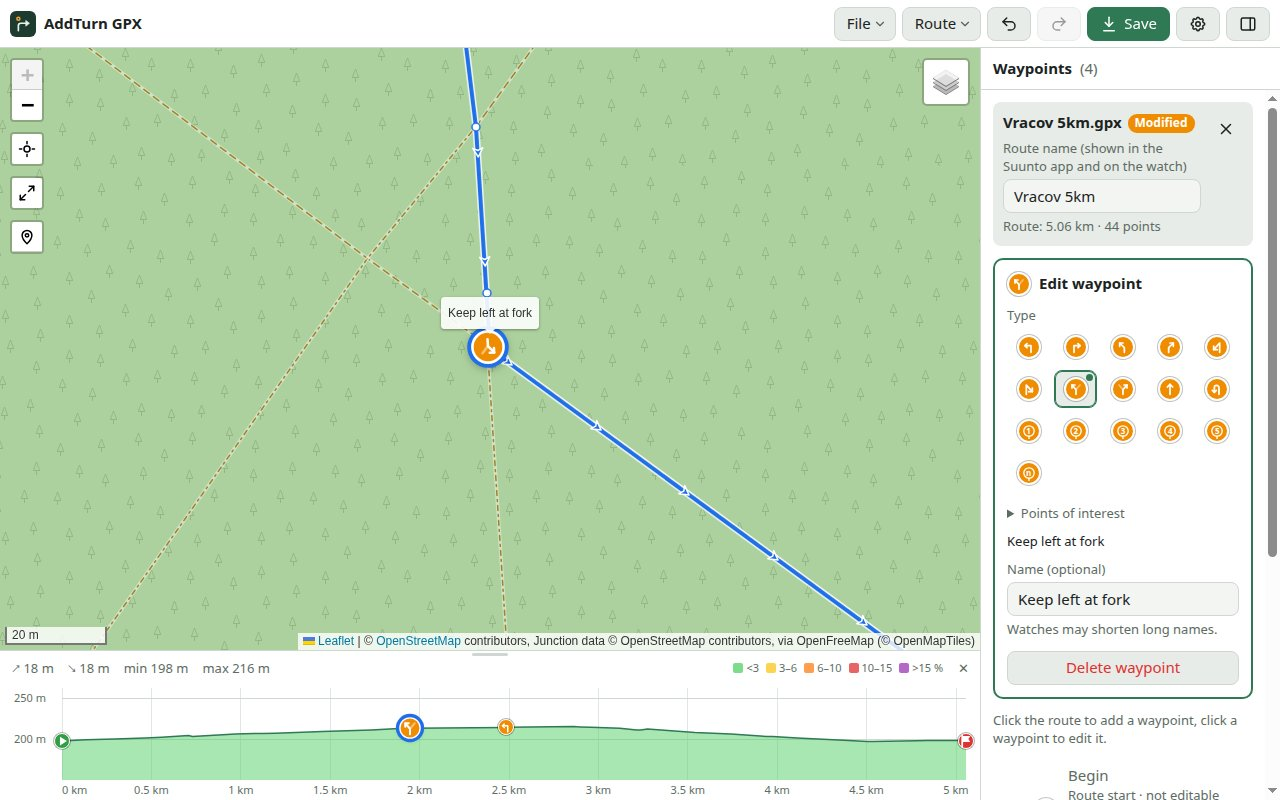
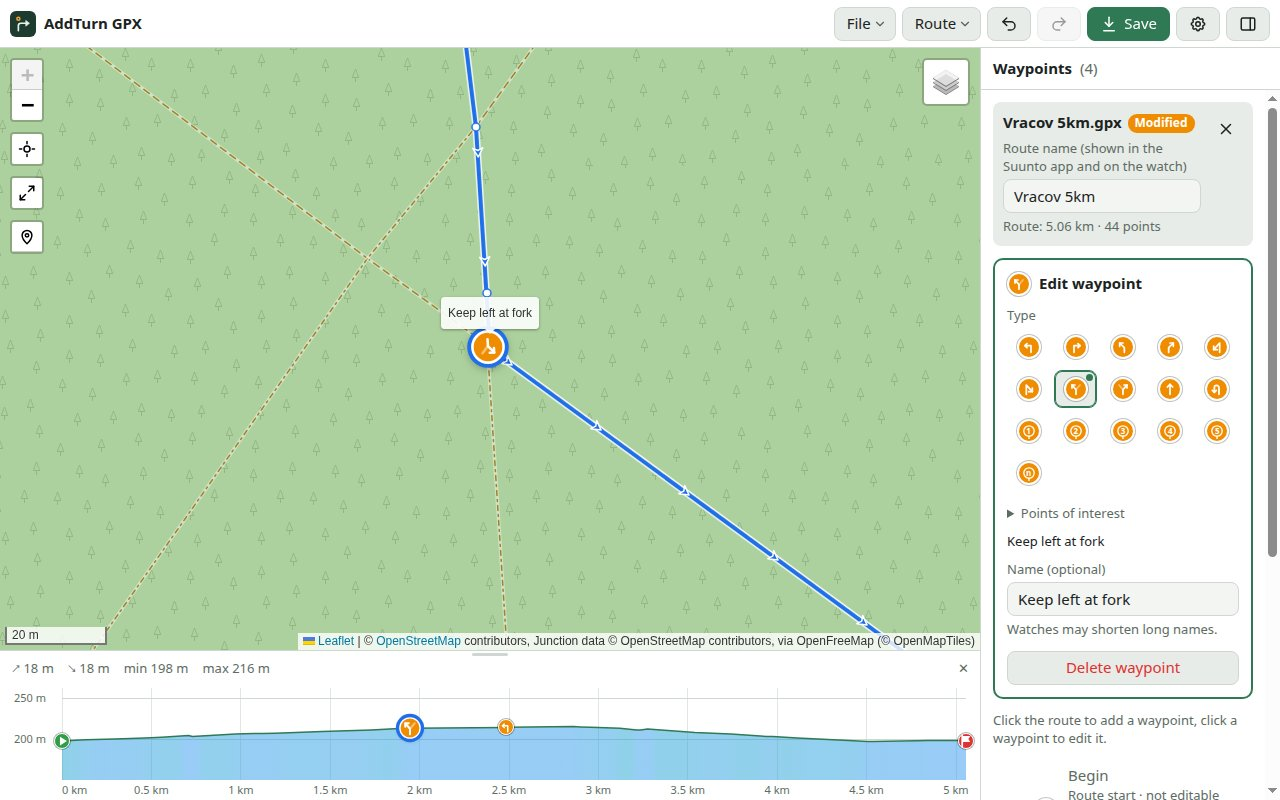
Elevation profile: smooth colour by steepness (blue – teal – green – yellow – red from 20 %), averaged over ±3 px of the chart so a long route doesn't break into stripes; legend removed (the cursor shows the grade); new README screenshots (v126)

Changed region(s): [[0.0312, 0.9062, 0.7812, 1.0], [0.5625, 0.8125, 0.75, 0.8438]]

diff --git a/index.html b/index.html
@@ -185,25 +185,11 @@
     position: absolute; top: 2px; left: 50%; width: 36px; height: 3px; transform: translateX(-50%);
     border-radius: 2px; background: var(--border); pointer-events: none;
   }
-  /* Legenda barev podle strmosti; v úzkém pruhu jen barvy */
-  #profile-legend{ display: flex; gap: 7px; font-size: 11px; flex: 0 0 auto; }
-  #profile-legend > span{ display: inline-flex; align-items: center; gap: 3px; }
-  #profile-legend i{ width: 10px; height: 10px; border-radius: 2px; display: inline-block; }
-  #profile.compact #profile-legend{ gap: 2px; font-size: 0; }
   #profile.compact #profile-stats{ font-size: 12px; }
   #profile.compact #profile-stats span + span{ margin-left: 8px; }
-  #profile.compact #profile-legend i{ width: 8px; }
   #profile-zoom-out{ height: 24px; min-width: 24px; padding: 0 4px; border-color: transparent; background: transparent; color: var(--text-muted); }
   #profile-zoom-out svg{ width: 16px; height: 16px; }
   @media (pointer: coarse){ #profile-zoom-out{ height: 30px; min-width: 30px; } }
-  /* Barvy podle strmosti (cyklus 91): do 3 %, 3–6, 6–10, 10–15, nad 15 % */
-  .pf-area.g0, #profile-legend .g0 i{ fill: #51cf66; background: #51cf66; }
-  .pf-area.g1, #profile-legend .g1 i{ fill: #fcc419; background: #fcc419; }
-  .pf-area.g2, #profile-legend .g2 i{ fill: #fd7e14; background: #fd7e14; }
-  .pf-area.g3, #profile-legend .g3 i{ fill: #e03131; background: #e03131; }
-  .pf-area.g4, #profile-legend .g4 i{ fill: #9c36b5; background: #9c36b5; }
-  .pf-area.g0, .pf-area.g1, .pf-area.g2, .pf-area.g3, .pf-area.g4{ fill-opacity: .5; }
-  #profile-legend i{ opacity: .75; }
   /* Výběr úseku tažením myší */
   #profile-sel{ position: absolute; top: 0; bottom: 0; pointer-events: none; background: color-mix(in srgb, var(--accent) 18%, transparent); border-left: 1px solid var(--accent); border-right: 1px solid var(--accent); }
   #profile-stats{ flex: 1 1 auto; min-width: 0; overflow: hidden; text-overflow: ellipsis; font-variant-numeric: tabular-nums; }
@@ -212,7 +198,8 @@
   @media (pointer: coarse){ #profile-close{ height: 30px; min-width: 30px; } }
   #profile-chart{ flex: 1 1 auto; min-height: 0; position: relative; overflow: hidden; cursor: crosshair; touch-action: none; user-select: none; -webkit-user-select: none; }
   #profile-chart svg{ position: absolute; inset: 0; width: 100%; height: 100%; display: block; }
-  .pf-area{ fill: color-mix(in srgb, var(--accent) 22%, transparent); }
+  /* Plocha s plynulou barvou podle strmosti (cyklus 93, vodorovný přechod #pf-grade) */
+  .pf-area{ fill: url(#pf-grade); fill-opacity: .5; }
   .pf-line{ fill: none; stroke: var(--accent); stroke-width: 1.5; stroke-linejoin: round; stroke-linecap: round; }
   .pf-grid{ stroke: var(--border); stroke-width: 1; shape-rendering: crispEdges; }
   .pf-grid.x{ opacity: .6; }
@@ -722,7 +709,6 @@
       <div id="profile-head" title="Drag to change the height of the elevation profile (double-click: the usual height)">
         <div id="profile-grip"></div>
         <span id="profile-stats"></span>
-        <span id="profile-legend" title="Colour of the profile by grade (steepness uphill or downhill)"><span class="g0" title="Grade under 3 %"><i></i>&lt;3</span><span class="g1" title="Grade 3–6 %"><i></i>3–6</span><span class="g2" title="Grade 6–10 %"><i></i>6–10</span><span class="g3" title="Grade 10–15 %"><i></i>10–15</span><span class="g4" title="Grade over 15 %"><i></i>&gt;15 %</span></span>
         <button type="button" id="profile-zoom-out" hidden title="Show the whole route in the profile (or double-click the chart)" aria-label="Show the whole route in the profile"><svg viewBox="0 0 24 24" fill="none" stroke="currentColor" stroke-width="2" stroke-linecap="round"><circle cx="10.5" cy="10.5" r="6.5"/><path d="m20 20-4.8-4.8M7.5 10.5h6"/></svg></button>
         <button type="button" id="profile-close" title="Hide the elevation profile (Route → Elevation profile shows it again)" aria-label="Hide the elevation profile">✕</button>
       </div>
@@ -1370,13 +1356,37 @@ function resetProfileView(){
   setProfileView(0, profile.total, { fit: false });
   fitRoute();
 }
-// Třída barvy podle strmosti (absolutní sklon v %; bez sklonu = nejnižší)
-const PROFILE_GRADE_CLASSES = [3, 6, 10, 15];
-function gradeClass(g){
-  const a = Math.abs(g ?? 0);
-  let c = 0;
-  while (c < PROFILE_GRADE_CLASSES.length && a >= PROFILE_GRADE_CLASSES[c]) c++;
-  return c;
+// Plynulá barva plochy podle strmosti (cyklus 93, přání uživatele 2026-11-28; dřív 5 tříd
+// s legendou): modrá – modrozelená – zelená – žlutá – červená, mezi opěrnými body lineárně,
+// od 20 % červená. Strmost = absolutní sklon (do kopce i z kopce stejně), legenda žádná –
+// přesný sklon ukazuje kurzor.
+const PROFILE_GRADE_COLORS = [[0, [51, 154, 240]], [3, [21, 170, 191]], [6, [81, 207, 102]], [10, [252, 196, 25]], [20, [224, 49, 49]]];
+function gradeColor(s){
+  const C = PROFILE_GRADE_COLORS;
+  let k = 1;
+  while (k < C.length - 1 && s > C[k][0]) k++;
+  const [g0, c0] = C[k - 1], [g1, c1] = C[k], t = Math.min(1, Math.max(0, (s - g0) / (g1 - g0)));
+  return "#" + c0.map((v, i) => Math.round(v + (c1[i] - v) * t).toString(16).padStart(2, "0")).join("");
+}
+// Strmost pro barvu ve vzdálenosti d: absolutní sklon z ±50 m (profileGrade, jako kurzor)
+// zprůměrovaný přes ±3 px grafu (PROFILE_COLOR_PX). Na dlouhé trase připadne na pixel víc
+// než 100 m (UTMB asi 150 m) a barva sloupce by vyšla z náhodného krátkého kousku – proužky;
+// průměr absolutních hodnot, aby se stoupání a klesání v okně nevyrušily. Sklon v krocích
+// nejvýš 25 m a nejvýš půl pixelu, průměr z kumulativních součtů.
+const PROFILE_COLOR_PX = 3, PROFILE_COLOR_STOP_PX = 2;
+function profileSteepness(v0, v1, cw){
+  const mpp = (v1 - v0) / cw, r = PROFILE_COLOR_PX * mpp;
+  const a = Math.max(profile.pts[0].d, v0 - r), b = Math.min(profile.pts.at(-1).d, v1 + r);
+  if (!(b > a) || !(mpp > 0)) return () => 0;
+  const n = Math.max(1, Math.ceil((b - a) / Math.min(25, mpp / 2))), h = (b - a) / n;
+  const cum = new Float64Array(n + 2);
+  for (let k = 0; k <= n; k++) cum[k + 1] = cum[k] + Math.abs(profileGrade(a + k * h) ?? 0);
+  return (d) => {
+    const i = Math.max(0, Math.ceil((d - r - a) / h - 1e-9)), j = Math.min(n, Math.floor((d + r - a) / h + 1e-9));
+    if (j >= i) return (cum[j + 1] - cum[i]) / (j - i + 1);
+    const k = Math.min(n, Math.max(0, Math.round((d - a) / h)));
+    return cum[k + 1] - cum[k];
+  };
 }
 function drawProfile(){
   const w = profileChart.clientWidth, h = profileChart.clientHeight;
@@ -1458,20 +1468,20 @@ function drawProfile(){
   }
   const xy = (q) => f1(q[0]) + "," + f1(q[1]);
   const path = line.map((q, i) => (i ? "L" : "M") + xy(q)).join("");
-  // Plocha po úsecích v barvě podle strmosti (cyklus 91, rozhodnutí uživatele: vždy) – sklon
-  // uprostřed každého kousku čáry z výšek 50 m před a za (profileGrade, jako v kurzoru)
-  let run = null;
-  const area = (r) => parts.push(`<path class="pf-area g${r.c}" d="M${f1(line[r.a][0])},${bottom}` +
-    line.slice(r.a, r.b + 1).map(q => "L" + xy(q)).join("") + `L${f1(line[r.b][0])},${bottom}Z"/>`);
-  for (let i = 0; i + 1 < line.length; i++) {
-    const c = gradeClass(profileGrade((line[i][2] + line[i + 1][2]) / 2));
-    if (run && run.c === c) run.b = i + 1;
-    else { if (run) area(run); run = { c, a: i, b: i + 1 }; }
+  // Plocha pod křivkou jednou cestou s vodorovným přechodem barev podle strmosti (cyklus 93):
+  // zastávky po 2 px, uvnitř stejně barevného úseku se vynechají
+  const steep = profileSteepness(v0, v1, cw), stops = [];
+  for (let x = 0; ; x = Math.min(cw, x + PROFILE_COLOR_STOP_PX)) {
+    stops.push([x / cw, gradeColor(steep(v0 + x / cw * span))]);
+    if (x >= cw) break;
   }
-  if (run) area(run);
+  const grad = stops.filter((q, i) => i === 0 || i === stops.length - 1 || q[1] !== stops[i - 1][1] || q[1] !== stops[i + 1][1])
+    .map(([o, c]) => `<stop offset="${o.toFixed(4)}" stop-color="${c}"/>`).join("");
+  parts.push(`<path class="pf-area" d="M${f1(line[0][0])},${bottom}` + line.map(q => "L" + xy(q)).join("") + `L${f1(line.at(-1)[0])},${bottom}Z"/>`);
   parts.push(`<path class="pf-line" d="${path}"/>`);
   profilePlot.innerHTML = `<svg xmlns="http://www.w3.org/2000/svg" role="img" aria-label="Elevation profile" viewBox="0 0 ${w} ${h}">` +
-    `<defs><clipPath id="pf-clip"><rect x="${left}" y="0" width="${cw}" height="${h}"/></clipPath></defs>` +
+    `<defs><clipPath id="pf-clip"><rect x="${left}" y="0" width="${cw}" height="${h}"/></clipPath>` +
+    `<linearGradient id="pf-grade" gradientUnits="userSpaceOnUse" x1="${left}" y1="0" x2="${right}" y2="0">${grad}</linearGradient></defs>` +
     parts.filter(t => !t.startsWith("<path")).join("") + `<g clip-path="url(#pf-clip)">${parts.filter(t => t.startsWith("<path")).join("")}</g></svg>`;
   profileGeom = { X, Y, lo, hi, left, right, top, bottom, v0, v1, n: line.length, dataLo, dataHi };
   profileZoomBtn.hidden = !profileView;

diff --git a/sw.js b/sw.js
@@ -13,7 +13,7 @@
 // Na originu dushino.github.io běží i další aplikace (OK Trainer) se společným
 // úložištěm cache, proto se při aktivaci mažou jen cache s touto předponou.
 const CACHE_PREFIX = "addturngpx-";
-const CACHE_NAME = CACHE_PREFIX + "v125";
+const CACHE_NAME = CACHE_PREFIX + "v126";
 // Soubor sdílený do nainstalované aplikace (manifest → share_target) přijde jako
 // POST na SHARE_URL. Uloží se do vlastní cache, stránka si ho po přesměrování
 // vyzvedne a cache smaže. Názvy = SHARE_CACHE a SHARED_FILE v index.html.

diff --git a/README.md b/README.md
@@ -71,7 +71,7 @@ Good to know:
 
 - **Map**: the route with arrows showing the direction of travel, plus the waypoints. The buttons on the left zoom in and out, show your location (while the location is being found, a blue circle spins in the icon – click it to cancel; then the icon turns blue, and another click hides the location; if the location can't be found, the icon turns red and crossed out, the reason is in its tooltip and a message, and the next click tries again), and **⤢ Fit route** shows the whole route, also while you are planning one. The **pin** button below them (or **Ctrl+G**) is **Go to**: type coordinates – decimal like `45.7661, 6.8385` (also `45.7661N, 6.8385E`), or degrees, minutes and seconds like `45°45'58"N 6°50'18"E` or `N 45° 45.966' E 6° 50.309'` – or a distance along the open route in km, as shown in the waypoint list (`67.28` or `67.28 km`). The map zooms in on the place and marks it with a ring until you click the map or press Esc; a waypoint within 5 m of it is selected. The layers button on the right switches between **OpenStreetMap**, **OpenTopoMap** (topographic map with contour lines) and **Satellite (Esri)**. A metric scale bar is in the bottom left corner.
 - **Panel** (on the right on a computer, a pull-up sheet at the bottom on a phone): file details, the **route name** that the Suunto app and the watch will show (you can edit it at any time; Undo works as for other changes), and the list of waypoints in the order you'll reach them on the route. Under each waypoint: the distance from the start along the route, from the previous turn, from the previous waypoint that is not a turn (point of interest, Crossroads, plain waypoint; *---* when there is none) and the altitude, and below that its **coordinates** (latitude, longitude, e.g. `48.957771, 17.209697`) – the same text you can type into **Go to**. A waypoint off the route shows only its altitude and coordinates.
-- **Elevation profile** (under the map; on a phone above the collapsed panel, which covers it when you pull it up): the distance from the start along the route on the horizontal axis (in km, the same distances as in the waypoint list) and the altitude of the route points on the vertical one. The axis always spans at least 100 m, so a flat route doesn't look like mountains. Above the chart: the total ascent and descent (a rise or drop smaller than 3 m is not counted, so the noise of a recorded track doesn't add up; the route planner and Export FIT count it the same way) and the lowest and highest point. The area under the curve is coloured by the grade – how steep the route is uphill or downhill (from 50 m before to 50 m after each place): green under 3 %, yellow 3–6 %, orange 6–10 %, red 10–15 %, purple over 15 % (the legend is next to the summary). Move the mouse over the chart to see the distance from the start, the altitude and the grade (over 50 m before and after) at that point, and a green dot at the same place on the map. A click (or a tap) keeps the place marked and moves the map onto it; a click on the map or Esc removes the mark. On a phone, drag your finger along the chart. Moving the mouse over the route on the map works the other way round: within a few pixels of the line the profile shows that place. **To zoom in on a part of the route**, drag the mouse across the chart (on a phone, spread two fingers on it): the profile then shows only that part, with its own altitude scale, and the map zooms onto it; the magnifier button next to the legend, or a double-click on the chart, shows the whole route again. **Drag the header of the profile** (the line at its top) up or down to change its height; the app remembers it, separately for a computer and a phone, and a double-click on the header returns the usual height. Every waypoint on the route is a small icon on the curve, in its colour from the map (the turn symbol is not rotated, so it shows the instruction itself; generated *Crossroads* are left out); the selected waypoint is larger with a blue ring, and a click on an icon selects the waypoint like the ↓ / ↑ keys (the map moves onto it). **Route → Elevation profile** or **✕** hides it and shows it again; the app remembers your choice. A route without elevation data has no profile. While you plan a new route, the profile shows the planned route (the ascent and descent are the same as in the planner's panel). On a phone turned sideways there is no room for it.
+- **Elevation profile** (under the map; on a phone above the collapsed panel, which covers it when you pull it up): the distance from the start along the route on the horizontal axis (in km, the same distances as in the waypoint list) and the altitude of the route points on the vertical one. The axis always spans at least 100 m, so a flat route doesn't look like mountains. Above the chart: the total ascent and descent (a rise or drop smaller than 3 m is not counted, so the noise of a recorded track doesn't add up; the route planner and Export FIT count it the same way) and the lowest and highest point. The area under the curve is coloured by how steep the route is, uphill or downhill alike, and the colour changes smoothly: blue on the flat, then teal (3 %), green (6 %), yellow (10 %) and red at 20 % and steeper. On a long route the colour shows the average steepness over a few pixels of the chart, so it doesn't break up into stripes; zoom in to see every slope. Move the mouse over the chart to see the distance from the start, the altitude and the grade (over 50 m before and after) at that point, and a green dot at the same place on the map. A click (or a tap) keeps the place marked and moves the map onto it; a click on the map or Esc removes the mark. On a phone, drag your finger along the chart. Moving the mouse over the route on the map works the other way round: within a few pixels of the line the profile shows that place. **To zoom in on a part of the route**, drag the mouse across the chart (on a phone, spread two fingers on it): the profile then shows only that part, with its own altitude scale, and the map zooms onto it; the magnifier button above the chart (next to ✕), or a double-click on the chart, shows the whole route again. **Drag the header of the profile** (the line at its top) up or down to change its height; the app remembers it, separately for a computer and a phone, and a double-click on the header returns the usual height. Every waypoint on the route is a small icon on the curve, in its colour from the map (the turn symbol is not rotated, so it shows the instruction itself; generated *Crossroads* are left out); the selected waypoint is larger with a blue ring, and a click on an icon selects the waypoint like the ↓ / ↑ keys (the map moves onto it). **Route → Elevation profile** or **✕** hides it and shows it again; the app remembers your choice. A route without elevation data has no profile. While you plan a new route, the profile shows the planned route (the ascent and descent are the same as in the planner's panel). On a phone turned sideways there is no room for it.
 - **Toolbar**: the menus **File** (New route, Open, Save, Save as…, Export FIT, Close) and **Route** (Snap to roads, Generate turns, Edit route, Reverse route, Elevation profile), then Undo, Redo, Save, Settings, and the button that shows or hides the panel. Menu items that can't be used at the moment (for example Route without an open route) are greyed out; *Save as…* is shown only in browsers that can choose where to save (Chrome and Edge on a computer). On a phone the buttons other than the menus show only icons. The app name (or icon) on the left opens this project page on GitHub.
 
 <img src="docs/img/mobile.jpg" alt="AddTurn GPX on a phone" width="260">

diff --git a/README-CZ.md b/README-CZ.md
@@ -71,7 +71,7 @@ Dobré vědět:
 
 - **Mapa**: trasa se šipkami ve směru jízdy a waypointy. Tlačítka vlevo přibližují a oddalují, ukážou tvou polohu (během zjišťování se v ikoně točí modré kolečko – klepnutím hledání zrušíš; pak ikona zmodrá a dalším klepnutím poloha zmizí; když se poloha zjistit nepodaří, ikona zčervená a je přeškrtnutá, důvod je v jejím popisku a ve zprávě a dalším klepnutím se to zkusí znovu) a **⤢ Fit route** ukáže celou trasu, i tu právě plánovanou. Tlačítko se **špendlíkem** pod nimi (nebo **Ctrl+G**) je **Go to** (přejít na): zadej souřadnice – desetinné jako `45.7661, 6.8385` (i `45.7661N, 6.8385E`), nebo stupně, minuty a vteřiny jako `45°45'58"N 6°50'18"E` či `N 45° 45.966' E 6° 50.309'` – nebo vzdálenost po otevřené trase v km, jak ji ukazuje seznam waypointů (`67.28` nebo `67.28 km`). Mapa místo přiblíží a označí kroužkem, který zmizí po kliknutí do mapy nebo Esc; waypoint do 5 m od místa se vybere. Tlačítkem vrstev vpravo přepínáš mezi **OpenStreetMap**, **OpenTopoMap** (turistická mapa s vrstevnicemi) a **Satellite (Esri)**. Vlevo dole je měřítko v metrech.
 - **Panel** (na počítači vpravo, na telefonu vysouvací panel dole): údaje o souboru, **název trasy**, který ukáže aplikace Suunto a hodinky (můžeš ho kdykoli upravit; Zpět funguje jako u ostatních úprav), a seznam waypointů v pořadí, v jakém na ně na trase narazíš. U každého waypointu: vzdálenost od startu po trase, od předchozí odbočky, od předchozího waypointu, který není odbočka (bod zájmu, Crossroads, obecný waypoint; *---*, když žádný není), a nadmořská výška a pod tím jeho **souřadnice** (šířka, délka, např. `48.957771, 17.209697`) – stejný zápis, jaký přijímá **Go to**. Waypoint mimo trasu ukáže jen výšku a souřadnice.
-- **Výškový profil** (pod mapou; na telefonu nad sbaleným panelem, vytažený panel ho zakryje): vodorovně vzdálenost od startu po trase (v km, stejné vzdálenosti jako v seznamu waypointů), svisle nadmořská výška bodů trasy. Osa výšky má vždy rozsah aspoň 100 m, aby rovinatá trasa nevypadala jako hory. Nad grafem celkové stoupání a klesání (vzestup nebo pokles menší než 3 m se nepočítá, aby se nesčítal šum zaznamenané trasy; stejně počítá i plánovač tras a Export FIT) a nejnižší a nejvyšší bod. Plocha pod křivkou je obarvená podle sklonu – jak strmě trasa stoupá nebo klesá (z 50 m před a za každým místem): zelená do 3 %, žlutá 3–6 %, oranžová 6–10 %, červená 10–15 %, fialová nad 15 % (legenda je vedle souhrnu). Když najedeš myší na graf, ukáže se v tom místě vzdálenost od startu, nadmořská výška a sklon (z 50 m před a za místem) a na mapě zelená tečka na stejném místě trasy. Klik (nebo klepnutí) místo označí natrvalo a posune na něj mapu; klik do mapy nebo Esc označení zruší. Na telefonu přejížděj po grafu prstem. Funguje to i obráceně: když najedeš myší na trasu v mapě (do pár pixelů od čáry), profil ukáže to místo. **Zvětšení části trasy:** táhni myší přes graf (na telefonu roztáhni na grafu dva prsty) – profil pak ukazuje jen tu část s vlastním měřítkem výšky a mapa se na ni přiblíží; tlačítko s lupou vedle legendy nebo dvojklik do grafu ukáže zase celou trasu. **Tažením za hlavičku profilu** (čárka nahoře) nahoru nebo dolů změníš jeho výšku; aplikace si ji pamatuje zvlášť pro počítač a pro telefon, dvojklik na hlavičku vrátí obvyklou výšku. Každý waypoint na trase je na křivce malou ikonou v barvě z mapy (symbol odbočky není natočený, ukazuje tedy pokyn sám; vygenerované *Crossroads* chybí); vybraný waypoint je větší s modrým kroužkem a klik na ikonu waypoint vybere jako klávesy ↓ / ↑ (mapa se na něj posune). **Route → Elevation profile** nebo **✕** profil skryje a znovu ukáže; aplikace si volbu pamatuje. Trasa bez údajů o výšce profil nemá. Při plánování nové trasy ukazuje profil plánovanou trasu (stoupání a klesání stejné jako v panelu plánovače). Na telefonu otočeném na šířku se nevejde.
+- **Výškový profil** (pod mapou; na telefonu nad sbaleným panelem, vytažený panel ho zakryje): vodorovně vzdálenost od startu po trase (v km, stejné vzdálenosti jako v seznamu waypointů), svisle nadmořská výška bodů trasy. Osa výšky má vždy rozsah aspoň 100 m, aby rovinatá trasa nevypadala jako hory. Nad grafem celkové stoupání a klesání (vzestup nebo pokles menší než 3 m se nepočítá, aby se nesčítal šum zaznamenané trasy; stejně počítá i plánovač tras a Export FIT) a nejnižší a nejvyšší bod. Plocha pod křivkou je obarvená podle toho, jak strmě trasa stoupá nebo klesá (do kopce i z kopce stejně), a barva se mění plynule: modrá na rovině, pak modrozelená (3 %), zelená (6 %), žlutá (10 %) a od 20 % červená. Na dlouhé trase ukazuje barva průměrnou strmost na několika pixelech grafu, aby se nerozpadla do proužků; po zvětšení úseku je vidět každé stoupání. Když najedeš myší na graf, ukáže se v tom místě vzdálenost od startu, nadmořská výška a sklon (z 50 m před a za místem) a na mapě zelená tečka na stejném místě trasy. Klik (nebo klepnutí) místo označí natrvalo a posune na něj mapu; klik do mapy nebo Esc označení zruší. Na telefonu přejížděj po grafu prstem. Funguje to i obráceně: když najedeš myší na trasu v mapě (do pár pixelů od čáry), profil ukáže to místo. **Zvětšení části trasy:** táhni myší přes graf (na telefonu roztáhni na grafu dva prsty) – profil pak ukazuje jen tu část s vlastním měřítkem výšky a mapa se na ni přiblíží; tlačítko s lupou nad grafem (vedle ✕) nebo dvojklik do grafu ukáže zase celou trasu. **Tažením za hlavičku profilu** (čárka nahoře) nahoru nebo dolů změníš jeho výšku; aplikace si ji pamatuje zvlášť pro počítač a pro telefon, dvojklik na hlavičku vrátí obvyklou výšku. Každý waypoint na trase je na křivce malou ikonou v barvě z mapy (symbol odbočky není natočený, ukazuje tedy pokyn sám; vygenerované *Crossroads* chybí); vybraný waypoint je větší s modrým kroužkem a klik na ikonu waypoint vybere jako klávesy ↓ / ↑ (mapa se na něj posune). **Route → Elevation profile** nebo **✕** profil skryje a znovu ukáže; aplikace si volbu pamatuje. Trasa bez údajů o výšce profil nemá. Při plánování nové trasy ukazuje profil plánovanou trasu (stoupání a klesání stejné jako v panelu plánovače). Na telefonu otočeném na šířku se nevejde.
 - **Lišta**: menu **File** (New route, Open, Save, Save as…, Export FIT, Close) a **Route** (Snap to roads, Generate turns, Edit route, Reverse route, Elevation profile), dál Undo, Redo, Save, Settings a tlačítko, které panel ukáže nebo skryje. Položky, které právě použít nejde (třeba Route bez otevřené trasy), jsou šedé; *Save as…* je jen v prohlížečích, které umí vybrat, kam uložit (Chrome a Edge na počítači). Na telefonu mají tlačítka kromě menu jen ikony. Název (nebo ikona) aplikace vlevo otevře tuto stránku projektu na GitHubu.
 
 <img src="docs/img/mobile.jpg" alt="AddTurn GPX na telefonu" width="260">

diff --git a/docs/dev/DESIGN.md b/docs/dev/DESIGN.md
@@ -716,8 +716,13 @@ Podnět uživatele: UTMB 172,6 km (45.937535, 6.872635) – *Turn right* na kři
 - **Mapa při zobrazení / skrytí profilu:** `invalidateSize({ pan: false })` – obsah mapy zůstane na místě, profil jen zakryje / odkryje spodní pruh (při plánování se profil objeví po prvním nalezeném úseku a mapa by jinak poskočila o 75 px pod rukou).
 - **`fmtAlong`:** nejdřív zaokrouhlit na metry, pak m / km – 999,6 m (i 999,99999 m z kurzoru) je „1.00 km“, ne „1000 m“ (platí i pro seznam waypointů).
 - **Krok 5 (cyklus 91, 2026-11-27; rozhodnutí uživatele: zvětšení tažením s mapou na úsek, plocha vždy barevná podle strmosti):**
-  - **Barvy podle strmosti:** plocha pod křivkou po kouscích čáry (mezi sousedními vykreslenými body), třída podle absolutního sklonu uprostřed kousku (`profileGrade`, ±50 m jako v kurzoru): do 3 % zelená, 3–6 žlutá, 6–10 oranžová, 10–15 červená, nad 15 % fialová (`gradeClass`, `PROFILE_GRADE_CLASSES`, `.pf-area.g0–g4`, průhlednost 50 %); sousední kousky stejné třídy = jedna cesta SVG. Čára zůstává zelená. Legenda v hlavičce (`#profile-legend`, popisky „<3 … >15 %“), v pruhu užším než 640 px jen barvy (`.compact`, souhrn tam 12 px s menšími mezerami, aby se vešel).
+  - **Barvy podle strmosti (nahrazeno cyklem 93, viz níže):** plocha pod křivkou po kouscích čáry (mezi sousedními vykreslenými body), třída podle absolutního sklonu uprostřed kousku (`profileGrade`, ±50 m jako v kurzoru): do 3 % zelená, 3–6 žlutá, 6–10 oranžová, 10–15 červená, nad 15 % fialová (`gradeClass`, `PROFILE_GRADE_CLASSES`, `.pf-area.g0–g4`, průhlednost 50 %); sousední kousky stejné třídy = jedna cesta SVG. Čára zůstává zelená. Legenda v hlavičce (`#profile-legend`, popisky „<3 … >15 %“), v pruhu užším než 640 px jen barvy (`.compact`, souhrn tam 12 px s menšími mezerami, aby se vešel).
   - **Zvětšený úsek** (`profileView` {v0, v1}, null = celá trasa): osa km jen v úseku, osa výšky z dat úseku (body v úseku a výška na jeho okrajích), křivka a plochy oříznuté na graf (`clipPath`), ikony jen v úseku, kurzor mimo úsek jen tečkou na mapě. Myš: tažení aspoň 5 px (`PROFILE_SEL_PX`) ukazuje výběr (`#profile-sel`), puštění zvětší úsek (nejméně 100 m, `PROFILE_MIN_VIEW_M`) a mapu `fitBounds` na úsek (`fitMapToProfileView`); klik bez tažení dál připíchne. Dotyk: jeden prst kurzor, dva prsty (`profileTouches`, `profilePinch`) zvětšují / posouvají – vzdálenosti pod prsty zůstávají pod prsty, kurzor se zruší, po zvednutí mapa na úsek. Zpět: tlačítko s lupou v hlavičce (`#profile-zoom-out`, jen při zvětšení) nebo dvojklik do grafu → celá trasa a `fitRoute`, připíchnutí se zruší. Úprava trasy úsek nechá (oříznutí na novou délku), otevření jiného souboru / Finish / nový plán ho zruší (`setGpx`).
   - **Myš nad trasou na mapě** (jen myš): do 12 px (`PROFILE_MAP_PX`) od čáry souboru i plánované trasy → `profileMapD` (nejbližší místo čáry, u trasy tam a zpět dřívější průchod při shodě), kurzor v profilu a tečka na čáře; průměty bodů do pixelů mapy v mezipaměti (`profileProj`, podle zoomu a dat). Priorita zobrazení: myš nad grafem > myš nad mapou > připíchnuté místo; odjetí z mapy vrátí připíchnuté.
   - **Výška pruhu:** tažení za hlavičku (úchyt `#profile-grip`, kurzor ns-resize, tlačítka ne), 90 px až „mapa aspoň 160 px“ (na telefonu i bez sbaleného panelu), `--profile-h` na `<html>`; zapamatovaná zvlášť pro počítač a telefon (`addturngpx.profileHeight` {desktop, mobile}), dvojklik na hlavičku = obvyklá (150 / 120 px). Hlavička o 4 px vyšší (úchyt), graf tedy 120 / 84 px.
 - **Kroky 2–5 hotové** (cykly 88–91).
+- **Plynulé barvy podle strmosti (cyklus 93, 2026-11-28; přání uživatele: 5 tříd na složité trase působilo chaoticky a na telefonu na výšku se do legendy nevešla čísla):**
+  - **Bez legendy** – přesný sklon ukazuje kurzor. Zrušeny `#profile-legend`, `gradeClass`, `PROFILE_GRADE_CLASSES`, `.pf-area.g0–g4`; v úzkém pruhu (`.compact`) zůstává menší písmo souhrnu.
+  - **Barva** (`gradeColor`, `PROFILE_GRADE_COLORS`): lineárně v RGB mezi opěrnými body 0 % modrá `#339af0`, 3 % modrozelená `#15aabf`, 6 % zelená `#51cf66`, 10 % žlutá `#fcc419`, **20 %** a víc červená `#e03131` (rozhodnutí uživatele: červená až od 20 %, ne 15 %; mezi žlutou a červenou vychází oranžová kolem 15 %). Do kopce i z kopce stejně.
+  - **Průměrování** (`profileSteepness`, rozhodnutí uživatele: zapnout): strmost = průměr **absolutního** sklonu z ±50 m (`profileGrade`, jako kurzor) přes ±3 px grafu (`PROFILE_COLOR_PX`). Důvod: na UTMB připadá na pixel asi 110–150 m, sklon ze 100 m okna pro každý sloupec byl náhodný vzorek → proužky; plynulá barva by je jen ztlumila. Absolutní hodnoty, aby se stoupání a klesání v okně nevyrušily (sklon z rozdílu výšek na okrajích okna by zubatý úsek ukázal jako rovinu). Součet |sklonu| po malých výškových změnách se nepoužívá – šum záznamu by rovinu udělal strmou. Sklon v krocích nejvýš 25 m a nejvýš půl pixelu, průměr z kumulativních součtů; při zvětšení úseku nebo na krátké trase jsou 3 px pod 50 m a barva odpovídá sklonu z ±50 m.
+  - **Kreslení:** plocha jedna cesta SVG (`.pf-area`, `fill: url(#pf-grade)`, průhlednost 50 %) s vodorovným `linearGradient` (`userSpaceOnUse` od levého k pravému okraji grafu), zastávky po 2 px (`PROFILE_COLOR_STOP_PX`), uvnitř stejně barevného úseku se vynechají (UTMB asi 440 zastávek). Překreslení UTMB 3,1 ms (dřív 4,9 ms).

diff --git a/docs/dev/PROGRESS.md b/docs/dev/PROGRESS.md
@@ -105,6 +105,7 @@ potvrzení od uživatele → další cyklus.
 | 90 | Výškový profil, krok 4: profil plánované trasy (výška z GraphHopperu, nalezené úseky, přerušení u čekajícího úseku), stoupání v kartě plánovače a v profilu jednou funkcí (souvislé úseky vcelku), mock GraphHopperu s výškou podle polohy; popisky výšky 16 px od začátku osy (překryv s ikonou Begin); mapa se při zobrazení profilu neposouvá; „1.00 km“ místo „1000 m“ (v123) | potvrzeno uživatelem (2026-11-27), testy 433/433 |
 | 91 | Výškový profil, krok 5: plocha barevná podle strmosti s legendou, zvětšení úseku tažením myší / dvěma prsty s mapou na úsek (zpět tlačítkem nebo dvojklikem), myš nad trasou v mapě ukáže místo v profilu, výška pruhu tažením za hlavičku (zapamatovaná pro počítač a telefon); nové snímky README (v124) | potvrzeno uživatelem (2026-11-27), testy 444/444 |
 | 92 | Zelená tečka na mapě (kurzor profilu) nad ikonami waypointů, pod jejich popisky (v125) | potvrzeno uživatelem (2026-11-27), testy 445/445 |
+| 93 | Výškový profil: plynulá barva podle strmosti (modrá – modrozelená – zelená – žlutá – červená od 20 %) zprůměrovaná přes ±3 px grafu, bez legendy; nové snímky README (v126) | čeká na test uživatele, testy 446/446 |
 
 ## Deník
 ### Cyklus 0 (2026-10-16)
@@ -959,3 +960,11 @@ potvrzení od uživatele → další cyklus.
 - Test: `profile.json` +1 krok (tečka v `profilePane`, panel nad `markerPane` a pod `tooltipPane`, tečka přesně na odbočce, `elementFromPoint` v jejím středu vrací ikonu odbočky – při zoomu 19, protože 8 m vedle leží „Waypoint 1“). Všechny sady **445/445**.
 
 - Potvrzeno uživatelem (2026-11-27).
+
+### Cyklus 93 – plynulé barvy profilu (2026-11-28)
+- Námět uživatele: barevné odlišení stoupání je dobré, ale na složitější trase působí chaoticky a na telefonu na výšku se do vysvětlivek nevejdou čísla → legendu zrušit, plynulý přechod modrá – modrozelená – zelená – žlutá – červená.
+- Návrh Claude: chaos má dvě příčiny – ostré hranice tříd (sklon kolem 6 % přeskakuje mezi barvami) a na dlouhé trase sklon ze 100 m na pixel o 110–150 m (náhodný vzorek každého sloupce → proužky); proto navíc průměrování přes ±3 px. Rozhodnutí uživatele: **červená až od 20 %**, **průměrování zapnout**; ostatní opěrné body podle návrhu (0 / 3 / 6 / 10 %).
+- Implementace: viz DESIGN.md → „Výškový profil“ → „Plynulé barvy podle strmosti“. `gradeColor`, `profileSteepness`, plocha jednou cestou s vodorovným přechodem `#pf-grade`; legenda a třídy odebrány. v126.
+- Srovnání staré / nové (headless Chrome): UTMB – místo fialovo-žlutých proužků souvislá stoupání oranžovo-červená, roviny modré; Vřesky kopec 8 km a Brno beze změny tvaru, jen plynulé barvy; na telefonu se souhrn vejde celý. Překreslení UTMB 3,1 ms (dřív 4,9 ms).
+- Testy: `profile.json` – krok barev přepsán (kilometrové úseky +1, +4, +9, +12, +20, −9, 0, −16, +30 % → barvy uprostřed úseků proti nezávisle spočítaným hodnotám, opěrné body, jedna plocha s `url(#pf-grade)` a průhledností 0,5, přechod od levého k pravému okraji grafu, čára bez výplně, legenda žádná; sklony 8 % nahrazeny 9 %, protože 8 % dává kanály přesně na ,5) a +1 krok (trasa 100 km nahoru a dolů o 5 m po 100 m: sklon z ±50 m kolísá 0–5 %, barva celé trasy rovnoměrná kolem 2,5 %, po zvětšení na 400 m zase sleduje každý svah). Všechny sady **446/446**.
+- README (EN i CZ): barvy, bez legendy, tlačítko s lupou „nad grafem (vedle ✕)“. Snímky `overview`, `generator`, `editor`, `mobile` znovu.

diff --git a/CLAUDE.md b/CLAUDE.md
@@ -119,6 +119,7 @@ jsou v `docs/dev/`; tady je jen to, co je potřeba vědět hned.
 - **Cyklus 90 (2026-11-27):** výškový profil, krok 4 – **profil plánované trasy** (výška z GraphHopperu, nalezené úseky za sebou, čekající úsek čáru přeruší); stoupání v kartě plánovače i v profilu jednou funkcí `planClimb` po souvislých úsecích (= profil po Finish); mock GraphHopperu v testech s výškou podle polohy (model terénu); popisky výšky 16 px od začátku osy (překrývala je ikona Begin); `invalidateSize({ pan: false })`; `fmtAlong` zaokrouhluje nejdřív na metry (v123). Testy 433/433. Potvrzeno uživatelem (2026-11-27).
 - **Cyklus 91 (2026-11-27):** výškový profil, krok 5 – plocha **barevná podle strmosti** (5 tříd do 3 / 6 / 10 / 15 % a víc, legenda), **zvětšení úseku** tažením myší / dvěma prsty s mapou na úsek (zpět lupou v hlavičce nebo dvojklikem), **myš nad trasou v mapě** ukáže místo v profilu, **výška pruhu** tažením za hlavičku (zvlášť počítač / telefon, dvojklik = obvyklá); snímky README znovu (v124). Testy 444/444. Potvrzeno uživatelem (2026-11-27) – výškový profil hotový.
 - **Cyklus 92 (2026-11-27):** zelená tečka kurzoru profilu na mapě **nad ikonami waypointů** (`profilePane` 640, pod popisky 650; dřív 595 pod waypointy – na UTMB nebyla vidět), klik propadne na waypoint (v125). Testy 445/445. Potvrzeno uživatelem (2026-11-27).
+- **Cyklus 93 (2026-11-28):** výškový profil – **plynulá barva podle strmosti** (0 % modrá, 3 % modrozelená, 6 % zelená, 10 % žlutá, od 20 % červená; `gradeColor`), průměr absolutního sklonu z ±50 m přes ±3 px grafu (`profileSteepness`, na UTMB místo proužků souvislá stoupání), jedna plocha s vodorovným přechodem `#pf-grade`, **legenda zrušena** (přesný sklon ukazuje kurzor), v126. Testy 446/446. Čeká na test uživatele.
 - **Plánovač tras (rozhodnutí uživatele 2026-10-30):** GraphHopper s vlastním API klíčem každého
   uživatele (ne BRouter/Valhalla, ne sdílený klíč), nezávisle na testech na hodinkách. Výstup dál
   formát test51. Viz `docs/dev/DESIGN.md` → „Rozhodnutí: GraphHopper s vlastním klíčem“. Cykly 25–26 potvrzeny,
